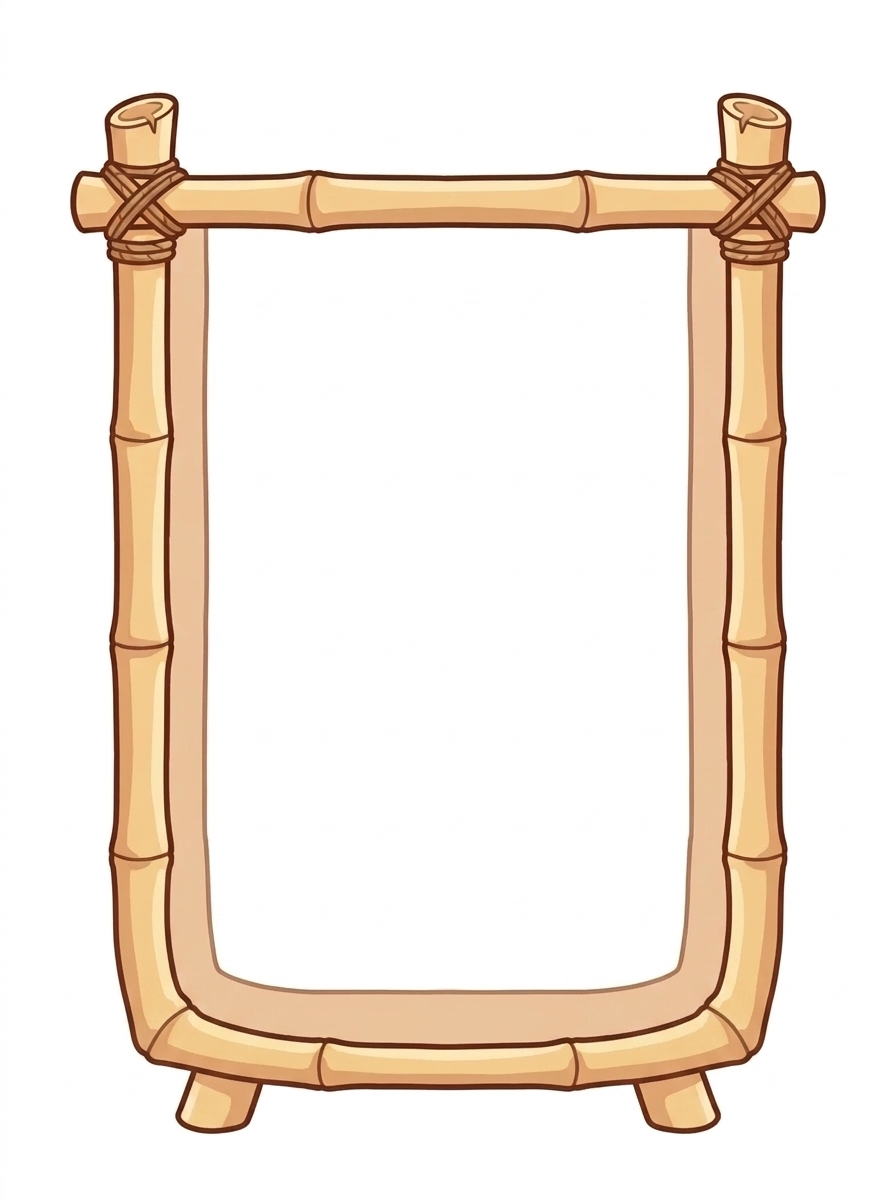
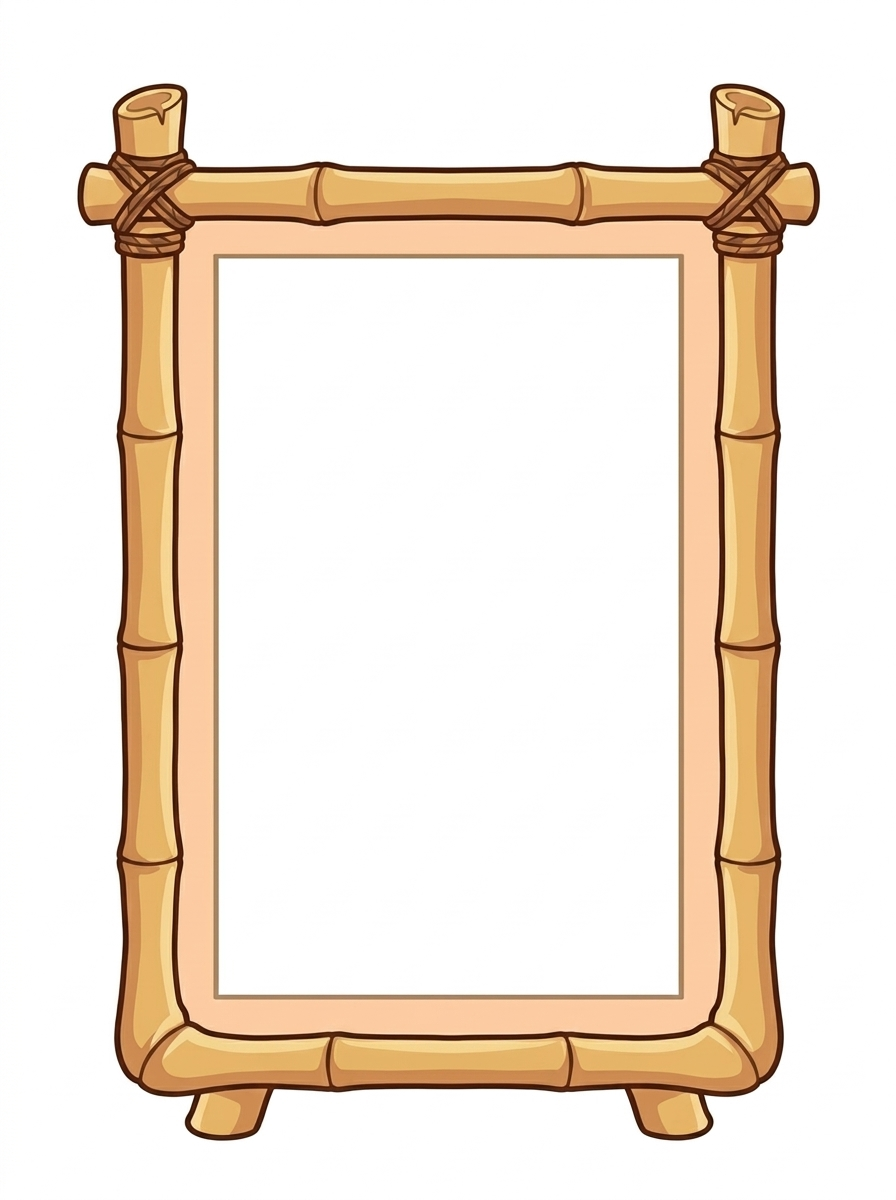
feat: the owner's final square jar, measured from the bamboo outline
The jar's bottom is straight with small elbow joints and the frame is a little
wider (opening 1 : 1.51). The art tool now measures the opening from the
bamboo's dark outline only: the glass edge's thin line (red about 145) had
been taken for the wall on one side.

Changed region(s): [[0.0625, 0.0617, 0.9375, 0.9558]]

diff --git a/src/config/sceneSpriteData.ts b/src/config/sceneSpriteData.ts
@@ -9,35 +9,35 @@ export const JAR_SPRITE: JarSprite = {
   front: 'jar-front.webp',
   width: 896,
   height: 1200,
-  left: 171.5,
-  right: 725.5,
-  rim: 227.5,
-  railTop: 175,
-  floor: 1043.5,
+  left: 178.5,
+  right: 718.5,
+  rim: 219.5,
+  railTop: 167,
+  floor: 1034.5,
   backPieces: [
-    { x: 170, y: 80, w: 10, h: 80 },
-    { x: 716, y: 80, w: 11, h: 80 },
-    { x: 170, y: 160, w: 557, h: 80 },
-    { x: 170, y: 240, w: 49, h: 720 },
-    { x: 683, y: 240, w: 44, h: 680 },
-    { x: 677, y: 920, w: 50, h: 40 },
-    { x: 170, y: 960, w: 557, h: 120 },
+    { x: 177, y: 80, w: 16, h: 80 },
+    { x: 705, y: 80, w: 15, h: 80 },
+    { x: 177, y: 160, w: 543, h: 120 },
+    { x: 177, y: 280, w: 43, h: 680 },
+    { x: 677, y: 280, w: 43, h: 680 },
+    { x: 177, y: 960, w: 543, h: 80 },
   ],
   frontPieces: [
-    { x: 103, y: 80, w: 69, h: 80 },
-    { x: 725, y: 80, w: 68, h: 80 },
-    { x: 69, y: 160, w: 103, h: 80 },
-    { x: 725, y: 160, w: 102, h: 80 },
-    { x: 105, y: 240, w: 67, h: 40 },
-    { x: 725, y: 240, w: 66, h: 720 },
-    { x: 107, y: 280, w: 65, h: 680 },
-    { x: 114, y: 960, w: 58, h: 40 },
-    { x: 725, y: 960, w: 57, h: 80 },
-    { x: 122, y: 1000, w: 50, h: 40 },
-    { x: 130, y: 1040, w: 636, h: 40 },
-    { x: 174, y: 1080, w: 548, h: 40 },
-    { x: 175, y: 1120, w: 77, h: 40 },
-    { x: 644, y: 1120, w: 77, h: 40 },
+    { x: 108, y: 80, w: 71, h: 80 },
+    { x: 718, y: 80, w: 71, h: 80 },
+    { x: 76, y: 160, w: 103, h: 80 },
+    { x: 718, y: 160, w: 103, h: 80 },
+    { x: 113, y: 240, w: 66, h: 40 },
+    { x: 718, y: 240, w: 67, h: 760 },
+    { x: 115, y: 280, w: 64, h: 240 },
+    { x: 120, y: 520, w: 59, h: 80 },
+    { x: 115, y: 600, w: 64, h: 120 },
+    { x: 115, y: 720, w: 64, h: 200 },
+    { x: 117, y: 920, w: 62, h: 80 },
+    { x: 113, y: 1000, w: 672, h: 80 },
+    { x: 129, y: 1080, w: 640, h: 40 },
+    { x: 183, y: 1120, w: 82, h: 40 },
+    { x: 634, y: 1120, w: 81, h: 40 },
   ],
 };
 

diff --git a/tools/buildScene.ts b/tools/buildScene.ts
@@ -37,6 +37,11 @@ const DATA_FILE = 'src/config/sceneSpriteData.ts';
 
 /** The bamboo's ink outline: red channel below this. */
 const INK_MAX_RED = 150;
+/**
+ * The jar's opening is measured from the bamboo's outline, which is darker than this: the pale
+ * glass edge inside it has a thin line of its own (red about 145) that must not count.
+ */
+const JAR_OUTLINE_MAX_RED = 120;
 /** A wall's inner edge counts as straight down to the floor while it stays this close, px. */
 const CORNER_TOLERANCE = 2;
 /** Piece finding: rows are scanned in bands this tall; gaps this wide split a band's pieces. */
@@ -107,7 +112,7 @@ async function buildJar(path: string): Promise<JarData> {
   clearRegion(image, width / 2, height / 2);
 
   const ink = (x: number, y: number): boolean =>
-    alphaAt(image, x, y) > 128 && (pixel(image, x, y)[0] ?? 255) < INK_MAX_RED;
+    alphaAt(image, x, y) > 128 && (pixel(image, x, y)[0] ?? 255) < JAR_OUTLINE_MAX_RED;
   const cx = Math.round(width / 2);
   const scan = (from: number, to: number, at: (i: number) => boolean): number => {
     const step = to > from ? 1 : -1;
